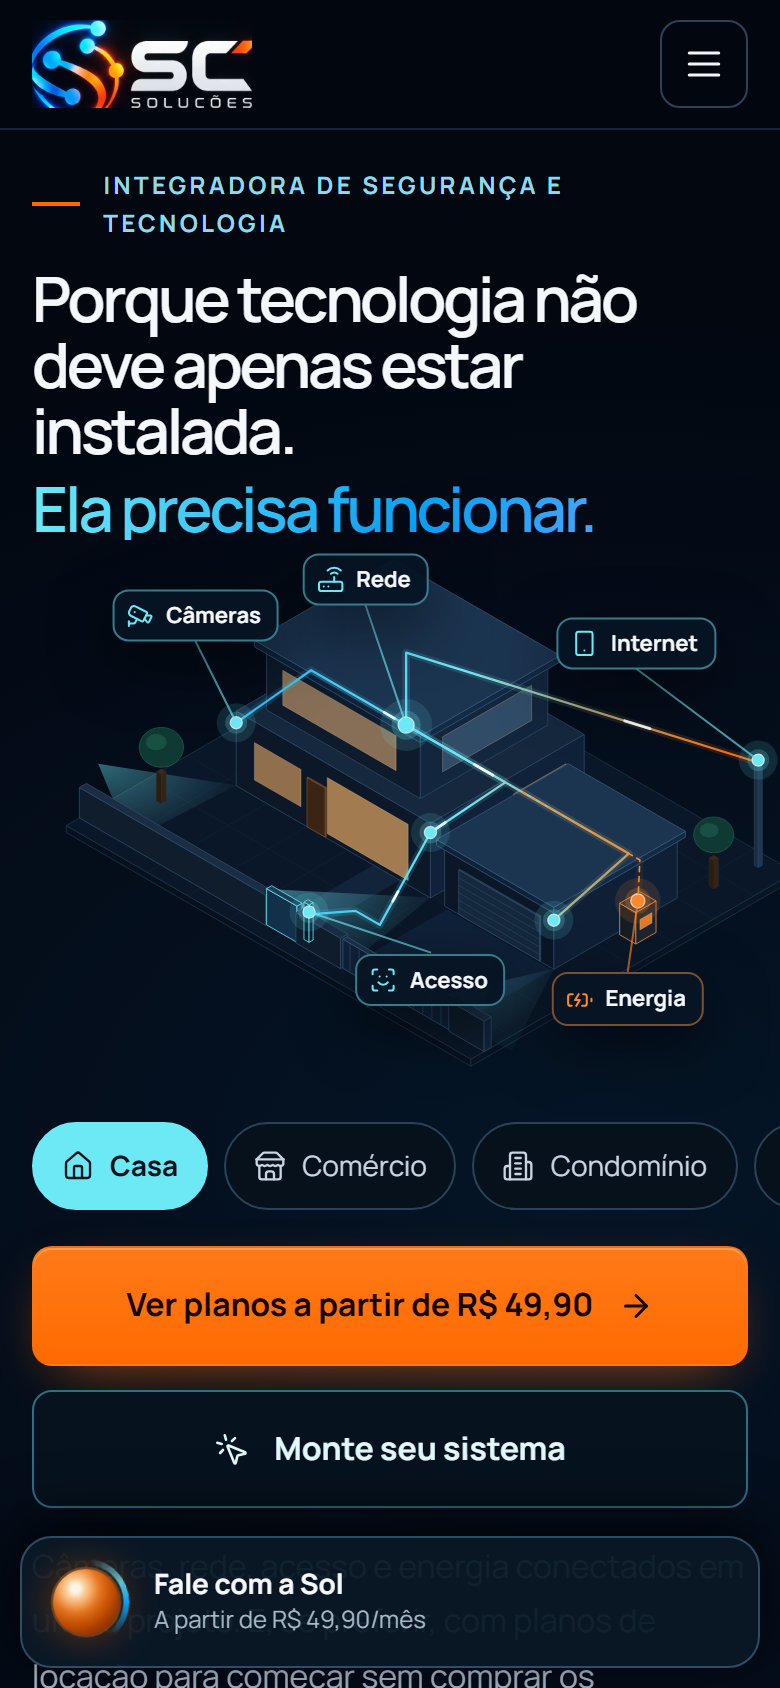
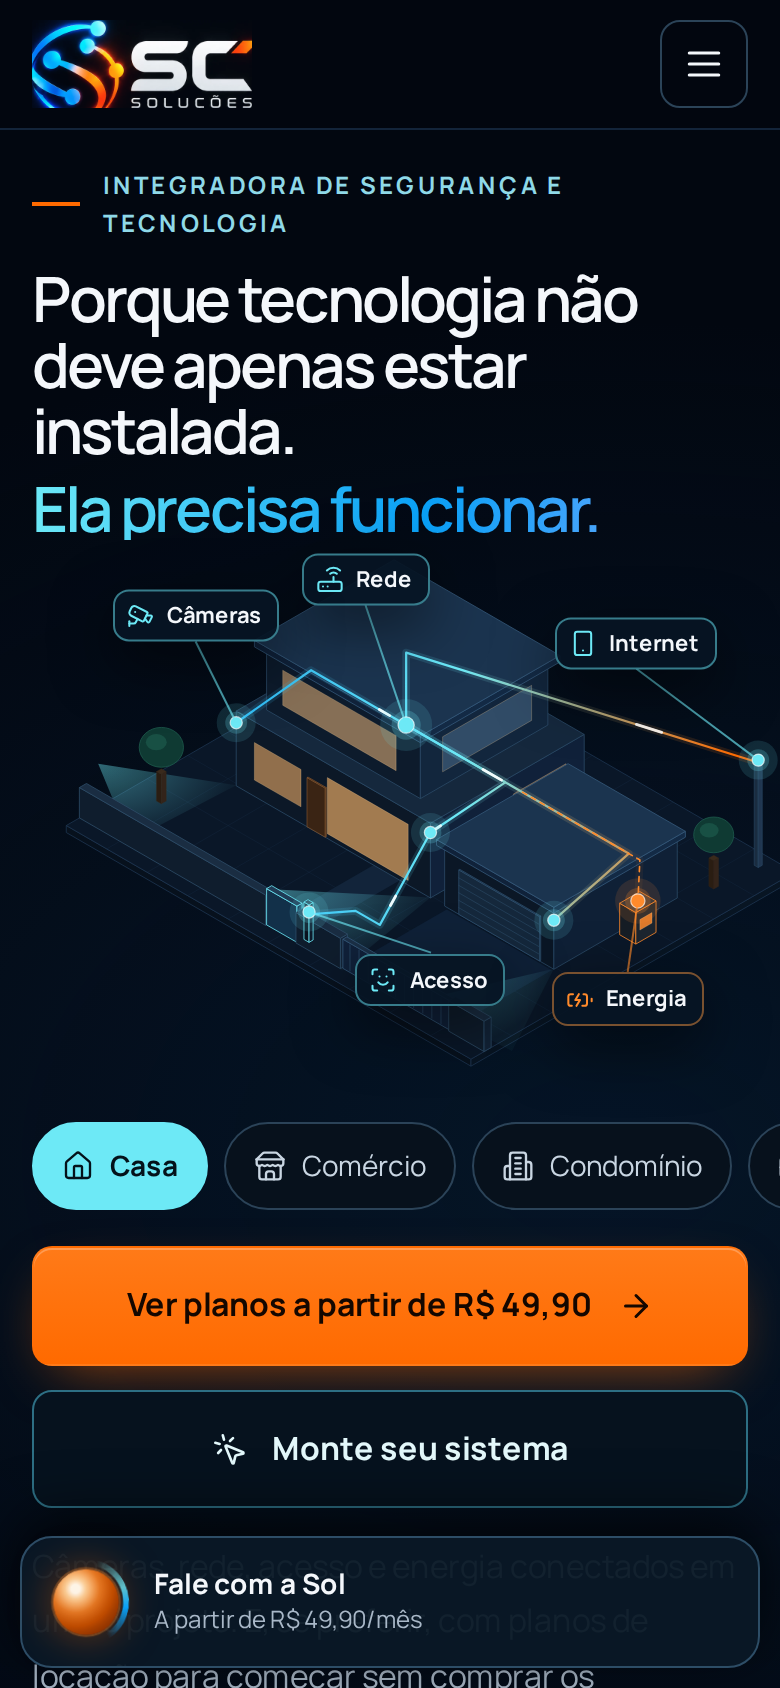
Etapas 6 e 7: ajustes finos, fotos, comparação e documentação
- Interfonia com os dois arcos à vista; sensores do alarme mais visíveis
- Celular: maquete em 42% da tela (o botão da abertura fica acima da barra
  da Sol), texto menor na imagem da câmera; rótulo dos campos da proposta
- Validador --fotos: fotos do condomínio e lado a lado com as imagens
  aprovadas (docs/inovacao/condominio/site-final e comparacao)
- README, CLAUDE.md, plano e decisões atualizados; 100/100

Claude-Session: https://claude.ai/code/session_01YY5VoKvoEPohJ4UwyGqNkr

diff --git a/site/src/scripts/condominio/cena.ts b/site/src/scripts/condominio/cena.ts
@@ -531,7 +531,7 @@ export function criarMaquete({ canvas, palco, movimento }: { canvas: HTMLCanvasE
 
   // Alarme: sensores no alto do muro e zona tracejada no perímetro
   const perimetro = [[LOTE.x0, LOTE.z0], [LOTE.x1, LOTE.z0], [LOTE.x1, LOTE.z1], [LOTE.x0, LOTE.z1]] as const;
-  const matSensor = brilho(corCamada.alarme, 3);
+  const matSensor = brilho(corCamada.alarme, 4.2);
   const tracos: THREE.Vector3[] = [];
   perimetro.forEach(([ax, az], k) => {
     const [bx, bz] = perimetro[(k + 1) % 4]!;
@@ -540,7 +540,7 @@ export function criarMaquete({ canvas, palco, movimento }: { canvas: HTMLCanvasE
       const x = ax + ((bx - ax) * d) / l;
       const z = az + ((bz - az) * d) / l;
       if (k === 2 && x > -9 && x < 10) continue;
-      const s = new THREE.Mesh(new THREE.OctahedronGeometry(0.32), matSensor);
+      const s = new THREE.Mesh(new THREE.OctahedronGeometry(0.46), matSensor);
       s.position.set(x, 2.35, z);
       camadas.alarme.add(...explicativo(s));
     }
@@ -550,7 +550,7 @@ export function criarMaquete({ canvas, palco, movimento }: { canvas: HTMLCanvasE
       tracos.push(new THREE.Vector3(ax + (bx - ax) * t0, 2.05, az + (bz - az) * t0), new THREE.Vector3(ax + (bx - ax) * t1, 2.05, az + (bz - az) * t1));
     }
   });
-  camadas.alarme.add(...explicativo(new THREE.LineSegments(new THREE.BufferGeometry().setFromPoints(tracos), new THREE.LineBasicMaterial({ color: corCamada.alarme.clone().multiplyScalar(1.6) }))));
+  camadas.alarme.add(...explicativo(new THREE.LineSegments(new THREE.BufferGeometry().setFromPoints(tracos), new THREE.LineBasicMaterial({ color: corCamada.alarme.clone().multiplyScalar(2.4) }))));
 
   /* ---------- câmera principal, pós-processamento, explorar ---------- */
   const camera = new THREE.PerspectiveCamera(28, 1, 1, 600);
@@ -723,7 +723,7 @@ export function criarMaquete({ canvas, palco, movimento }: { canvas: HTMLCanvasE
       if (noite && e.nobreak && !celular()) lista.push(etiqueta(fundo.x - 3, fundo.y + 2, fundo.z + 2, cor('cameras'), 'cctv', 'Câmeras gravando', s.textos.cameras));
       if (e.situacao === 'internet') lista.push(etiqueta(RACK[0], 3, RACK[1], cor('rede'), 'wifi-off', s.textos.internet, 'Gravação continua'));
     }
-    if (cap === 'alarme') lista.push(etiqueta(LOTE.x1, 4, -6, cor('alarme'), 'bell-ring', 'Alarme', 'Avisos no aplicativo'));
+    if (cap === 'alarme') lista.push(etiqueta(LOTE.x0 + 6, 4.5, LOTE.z0, cor('alarme'), 'bell-ring', 'Alarme', 'Avisos no aplicativo'));
     camadaRotulos.replaceChildren(...lista.map((r) => r.el));
     rotulos = lista;
   }

diff --git a/site/src/lib/condominio/capitulos.ts b/site/src/lib/condominio/capitulos.ts
@@ -102,13 +102,12 @@ export const CAPITULOS: readonly Capitulo[] = [
   {
     id: 'interfonia',
     numero: 3,
-    vista: { alvo: [-4, 7, 4], raio: 150, azimute: 22, elevacao: 30, deslocar: 0.14 },
+    vista: { alvo: [2, 7, 1], raio: 160, azimute: 14, elevacao: 28, deslocar: 0.1 },
     vistaCelular: { alvo: [-4, 6, 5], raio: 165, azimute: 24, elevacao: 34 },
     camadas: ['interfonia', 'acesso'],
     realce: 'interfonia',
     visitante: true,
-    selecionada: 1,
-    monitor: [1],
+    monitor: [],
   },
   {
     id: 'rede',

diff --git a/site/src/styles/condominio.css b/site/src/styles/condominio.css
@@ -156,7 +156,7 @@ html:not([data-3d]) .camera-botao { pointer-events: none; }
 }
 
 @media (max-width: 800px) {
-  .tour { --palco-alto: 46svh; }
+  .tour { --palco-alto: 42svh; }
   .palco { z-index: 3; box-shadow: 0 12px 24px -12px #000; }
   .palco-veu { background: linear-gradient(0deg, #020710 0%, transparent 22%); }
   .palco-veu::after, .camadas, .palco-nota { display: none; }

diff --git a/site/README.md b/site/README.md
@@ -18,17 +18,21 @@ npm run build      # checagem de tipos + dist/
 npm run preview    # serve o dist/ em http://localhost:4173
 npm run validar    # tipos, build, testes, acessibilidade (axe) e conferências em navegador → docs/inovacao/RELATORIO-VALIDACAO.md
 npm run validar -- --fotos   # + fotos em docs/inovacao/site-final/ e lado a lado com os mockups em comparacao/
+                             #   (e as do condomínio em docs/inovacao/condominio/site-final/ e comparacao/)
+npm run imagem-condominio    # depois de npm run build: refaz a imagem pronta da maquete (public/condominio/)
 ```
 
 ## Arquitetura
 
 ```
 src/
-  pages/index.astro        página (compõe as seções)
+  pages/index.astro        página inicial (compõe as seções; importa os estilos e o script dela)
+  pages/condominio.astro   Condomínio Evoluído: capítulos + maquete 3D (plano em docs/inovacao/condominio/)
   pages/privacidade.astro  política de privacidade
   pages/robots.txt.ts      robots.txt gerado no build (aponta o sitemap)
-  layouts/Base.astro       <head>, estilos, fonte e o script de interação
+  layouts/Base.astro       <head>, fonte e estilos-base comuns a todas as páginas
   components/*.astro       uma seção por componente (Abertura, Planos, Configurador, ComoFunciona…)
+  components/condominio/   Palco (maquete, monitor, camadas) e Capitulos (todo o texto da página)
   lib/                     dados e regras, sem DOM (rodam no build e no navegador)
     dados.ts               conteúdo comercial: planos, preços, condições, dúvidas, contato
     cenarios.ts            estados do "E se…?" por ambiente e situação
@@ -38,11 +42,16 @@ src/
     busca.ts               busca nas dúvidas (sinônimos, peso por raridade, intenção de preço)
     plantas-svg.ts         desenho das plantas do configurador
     icones.ts              subconjunto do Lucide
+    condominio/            maquete.ts (lote, prédios, câmeras), cobertura.ts (campo de visão e pontos
+                           cegos), capitulos.ts (camadas e enquadramentos), proposta.ts (mensagem para a Sol)
   scripts/*.ts             interação no navegador (sem framework de cliente)
+  scripts/condominio/      pagina.ts (capítulos, E se…?, proposta) e cena.ts (Three.js, baixado só se
+                           o aparelho tiver WebGL 2 e não estiver economizando dados)
   styles/*.css             estilos por seção; tokens de cor da logo em base.css
 tests/*.test.ts            Vitest (regras de negócio)
 scripts/validar.mjs        validador de ponta a ponta (Playwright)
 scripts/gerar-marca.mjs    favicon, ícone e imagem Open Graph a partir da logo oficial
+scripts/gerar-imagem-condominio.mjs  imagem pronta da maquete (aparece antes do 3D e no lugar dele)
 ```
 
 Princípios:
@@ -64,6 +73,9 @@ Princípios:
 | Trocar o número do WhatsApp | `src/lib/dados.ts` → `contato.whatsapp` |
 | Editar as dúvidas frequentes | `src/lib/dados.ts` → `duvidas` (e sinônimos em `src/lib/busca.ts`) |
 | Mudar pontos sugeridos do configurador | `src/lib/configurador-dados.ts` |
+| Mudar textos da página do condomínio | `src/lib/dados.ts` → `paginaCondominio` (os sistemas vêm de `servicosProposta` e do configurador) |
+| Mudar prédios ou câmeras da maquete | `src/lib/condominio/maquete.ts`; depois `npm run build && npm run imagem-condominio` |
+| Mudar o enquadramento de um capítulo | `src/lib/condominio/capitulos.ts` (`vista` e `vistaCelular`) |
 | Mudar a taxa de instalação (hoje, 1 mensalidade) | `src/lib/dados.ts` → `taxaInstalacaoMensalidades` |
 | Mudar o que aparece em "Simples de contratar" | `src/lib/dados.ts` → `condicoes` |
 | Trocar CNPJ, cidade ou e-mail do rodapé | `src/lib/dados.ts` → `empresa` e `contato.email` |

diff --git a/docs/inovacao/DECISOES.md b/docs/inovacao/DECISOES.md
@@ -65,10 +65,20 @@ a pessoa quer. O site diz "atendimento pela equipe da SC" e não promete respost
 | Fonte e ícones | Embutidos (Manrope OFL, Lucide ISC) | Sem chamadas a servidores de terceiros |
 | Node.js | 22.18 ou mais novo | O validador lê `dados.ts` direto (suporte nativo a TypeScript do Node 22.18+) |
 
-## Página do Condomínio Evoluído (proposta de 30/09/2026, aguardando aprovação)
+## Página do Condomínio Evoluído (30/09/2026: aprovada e construída, ainda não publicada)
 
 O Kauan pediu páginas separadas, começando pelo condomínio, com algo imersivo e interação 3D, e quer
 ver imagens antes da construção. A proposta, as imagens do protótipo e as decisões em aberto estão em
 [`condominio/PLANO.md`](condominio/PLANO.md). Resumo: maquete 3D gerada a partir de dados (Three.js),
 câmeras que mostram o que enxergam, pontos cegos, camadas do Condomínio Evoluído e proposta pela Sol.
-A página inicial não muda, a não ser pelo link para a página nova.
+A página inicial não muda, a não ser pelos links para a página nova (menu, abertura ao escolher
+"Condomínio", aba Condomínio dos planos e configurador).
+
+| Tema | Decisão | Motivo |
+|---|---|---|
+| Motor 3D | Three.js r186, baixado **depois** da página e só com WebGL 2 | Padrão de mercado, leve para o que faz (616 KB; primeira visão da página: 249 KB) |
+| Modelo | Gerado a partir de dados (`lib/condominio/maquete.ts`), sem arquivo 3D | Mudar uma câmera é mudar um número; as regras (pontos cegos) têm testes |
+| Sem 3D | Imagem pronta da maquete (gerada da própria cena) e todo o texto no HTML | Funciona sem WebGL, sem JavaScript e com economia de dados |
+| Imagem das câmeras | Cada câmera renderiza a cena num só canvas; desenhos explicativos ficam fora da imagem | Uma única conexão com a placa de vídeo; a imagem mostra só o que existiria |
+| Bateria | Desenha só quando precisa, pausa fora da tela, qualidade cai sozinha em aparelho lento | Página imersiva sem esquentar o celular |
+| Proposta | Sistemas marcados → mensagem para a Sol (mesmo começo do configurador) | Regra de 28/09: botões de venda passam pela Sol; WhatsApp só em "Fale com a SC" |

diff --git a/docs/inovacao/condominio/PLANO.md b/docs/inovacao/condominio/PLANO.md
@@ -1,9 +1,23 @@
 # Condomínio Evoluído em 3D: plano da página
 
-**Situação (30/09/2026): proposta para aprovação.** As imagens abaixo saíram de um protótipo 3D de
-verdade (`mockups/`), não de desenho solto. A página ainda **não** foi construída no site: ela só
-começa depois que o Kauan aprovar o visual. A página inicial continua como está; o condomínio ganha
-uma página própria (`somoscella.online/condominio/`), e a inicial ganha um link para ela.
+**Situação (30/09/2026): aprovada pelo Kauan e construída** no ramo `claude/sweet-faraday-yvwddr`
+(ainda **não publicada**). As imagens abaixo são as do protótipo aprovado (`mockups/`); as fotos da
+página construída estão em `site-final/` e o lado a lado em `comparacao/`.
+
+**Decisões do Kauan (30/09):** visual aprovado; "Condomínio" no menu principal; blocos e apartamentos
+no formulário (opcionais); link na abertura (ao escolher "Condomínio"), na aba Condomínio dos planos e
+no configurador.
+
+**Diferenças em relação às imagens, e por quê:**
+
+- As camadas ficaram dentro do painel do monitor. Na coluna da esquerda elas batiam no texto dos
+  capítulos mais longos.
+- O botão da abertura leva ao formulário "Monte a proposta", e é de lá que a Sol abre, já com os
+  sistemas marcados.
+- Interfonia e alarme ganharam capítulos próprios, completando os 6.
+- O monitor fica um pouco mais alto, para não ficar embaixo do botão "Fale com a Sol".
+- No "E se…?", ao tocar em "Faltou energia" o nobreak começa desligado, como na página inicial, e a
+  pessoa liga para ver a diferença.
 
 ---
 

diff --git a/docs/inovacao/RELATORIO-VALIDACAO.md b/docs/inovacao/RELATORIO-VALIDACAO.md
@@ -1,6 +1,6 @@
 # Relatório de validação do site
 
-Gerado por `npm run validar` em 30/09/2026, 18:34:34.
+Gerado por `npm run validar` em 30/09/2026, 18:48:38.
 Resultado: **100 de 100 itens ✅** — checklist completa.
 
 ## Geral
@@ -134,7 +134,7 @@ Resultado: **100 de 100 itens ✅** — checklist completa.
 | ✅ | Sem preço, prazo de contrato nem "instalação inclusa" na página do condomínio |  |
 | ✅ | Zero erros no console (maquete 3D, computador) |  |
 | ✅ | Peso: primeira visão ≤ 300 KB e maquete 3D ≤ 700 KB (baixada depois, sem compactação) | primeira visão 249 KB; maquete 616 KB |
-| ✅ | Celular: maquete no alto da tela, sem rolagem lateral, toques ≥ 44 px e sem erros | {"sobra":0,"alturaPalco":388,"pequenos":[],"erros":[]} |
+| ✅ | Celular: maquete no alto da tela, sem rolagem lateral, toques ≥ 44 px e sem erros | {"sobra":0,"alturaPalco":354,"pequenos":[],"erros":[]} |
 | ✅ | Condomínio sem 3D: imagem da maquete, os 8 capítulos e o contato; controles da maquete escondidos | {"imagem":true,"capitulos":8,"so3d":0,"canvas":false,"contato":true} |
 | ✅ | Condomínio sem JavaScript: imagem da maquete, os 8 capítulos e o contato; controles da maquete escondidos | {"imagem":true,"capitulos":8,"so3d":0,"canvas":false,"contato":true} |
 | ✅ | Inicial leva ao condomínio: abertura (ao escolher "Condomínio"), aba dos planos, configurador e menu | {"escondidoAntes":true,"linkAbertura":"/condominio/","planos":true,"configurador":true,"menu":true} |

diff --git a/CLAUDE.md b/CLAUDE.md
@@ -47,6 +47,11 @@ solução, não a mais simples de entender; nas conversas, explique o porquê da
 - **Botões:** todo botão que abre o WhatsApp mostra o ícone do WhatsApp (`IconeWhatsapp.astro` ou
   `iconeWhatsapp()` de `src/lib/marcas.ts`), em contorno ciano, nunca verde; tudo o que abre a Sol
   mostra o orbe laranja. O validador confere o ícone.
+- **Página do Condomínio Evoluído** (`/condominio/`, aprovada em 30/09/2026): maquete 3D ilustrativa
+  (Three.js, baixado só com WebGL 2) com capítulos por rolagem. Textos em `dados.ts` (`paginaCondominio`);
+  maquete e regras em `src/lib/condominio/` (com testes). Nada de preço, dias de gravação ou quantidade
+  de câmeras nessa página: condomínio é proposta personalizada, pela Sol. Mudou a maquete? Rode
+  `npm run build && npm run imagem-condominio` para refazer a imagem pronta. Plano: `docs/inovacao/condominio/`.
 - Logo: só os arquivos oficiais (`site/public/marca/`); nunca redesenhe. O Claude não gera foto.
 - **Publicar é ação externa: só com pedido explícito do Kauan** (Nginx do VPS, guardando antes a versão no ar).
 
